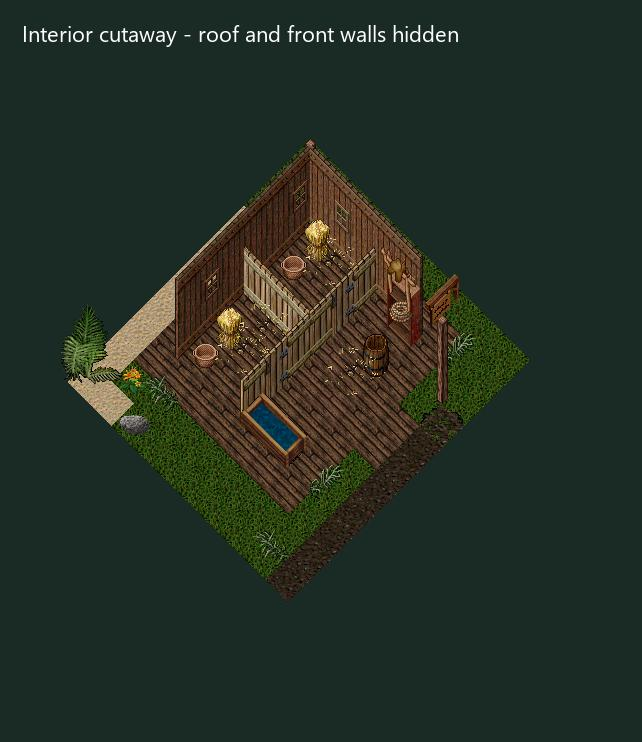
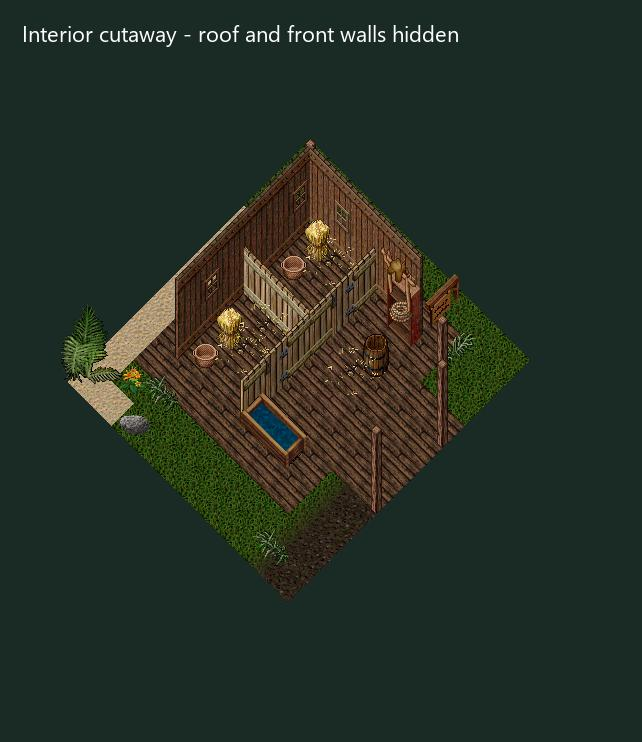
Blend stable lane with native terrain edges and cover the porch

Changed region(s): [[0.405, 0.496, 0.7165, 0.7749]]

diff --git a/tools/plan-corsair-stable.py b/tools/plan-corsair-stable.py
@@ -12,18 +12,30 @@ def add(name, art, x, y, z=0):
 for x in range(38,45):
     for y in range(91,99):
         add('stable deck',0x4AB if (x,y) in ((42,94),(43,95)) else 0x4A9,x,y)
-# A timber threshold keeps the doorway dry. The stable lane is packed earth,
-# joining the paved main route at y=105. Its shoulders vary with foot traffic.
-for y in (94,95): add('timber threshold',0x4A9,45,y)
-lane={(46,y) for y in range(94,105)} | {(47,y) for y in range(94,105)}
-lane.update((48,y) for y in (95,96,100,103,104))
-for x,y in sorted(lane): add('stable dirt lane',0x31F4+(x*3+y)%4,x,y)
-for x,y in ((46,93),(48,94),(48,97),(48,99),(48,102)):
-    add('worn dirt shoulder',0x914,x,y)
-for x,y in ((45,97),(45,100),(49,96),(49,101)):
+# Covered timber porch: two front posts support the lean-to, leaving the
+# central two-tile entrance unobstructed.
+for x in (45,46):
+    for y in range(93,97):
+        add('porch deck',0x4A9,x,y)
+        add('porch roof',0x5C3,x,y,23 if x==45 else 20)
+for y in (93,96): add('porch support',0x9,46,y)
+# Native LAND transitions, not dirt statics placed on grass. These edits need
+# matching server/client map generation when installed; this authoring preview
+# does not modify either map. 0x89/0x87 feather opposite grass-facing edges.
+def land(art,x,y):
+    add('stable lane terrain',art,x,y)
+    tiles[-1]['type']='Land'
+for y in range(94,105):
+    for x in (46,47):
+        if x==46 and y<=96: continue
+        land(0x76+(x+y)%3,x,y)
+    land(0x89,45 if y>=97 else 46,y)
+    land(0x87,48,y)
+# Gravel joins packed dirt to the stone junction instead of isolated square
+# paving tiles within the lane.
+for x in (46,47): land(0xE1,x,104)
+for x,y in ((45,100),(49,96),(49,101)):
     add('lane grass',0xCAC if y%2 else 0xCAD,x,y)
-# Retain just two stones where the lane meets the town paving.
-for x,y in ((46,104),(48,104)): add('reused stepping stone',0x519,x,y)
 add('tracked straw',0xF35,43,94)
 add('foundation flowers',0xC85,38,99)
 add('foundation grasses',0xCAD,39,99)
